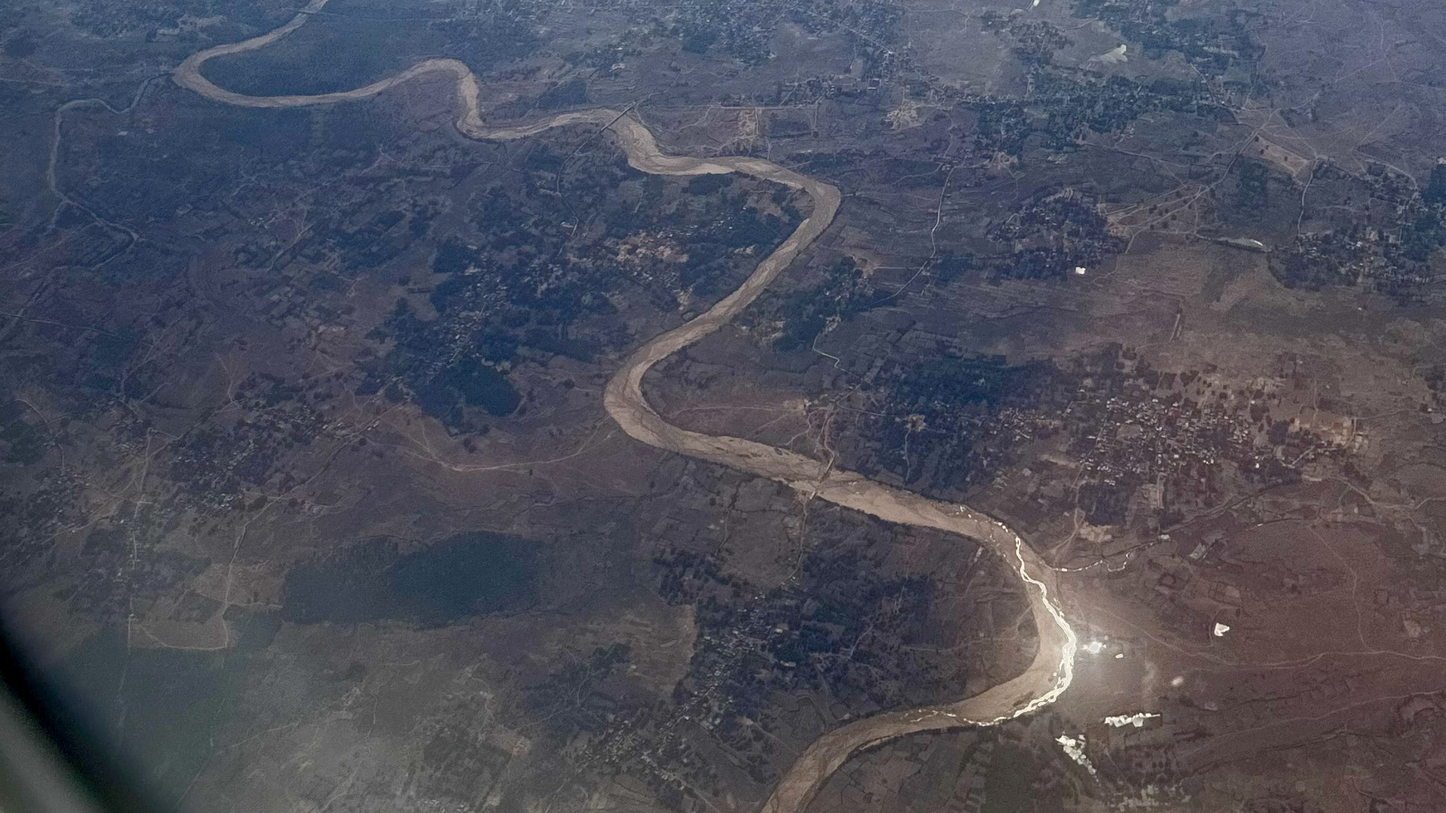
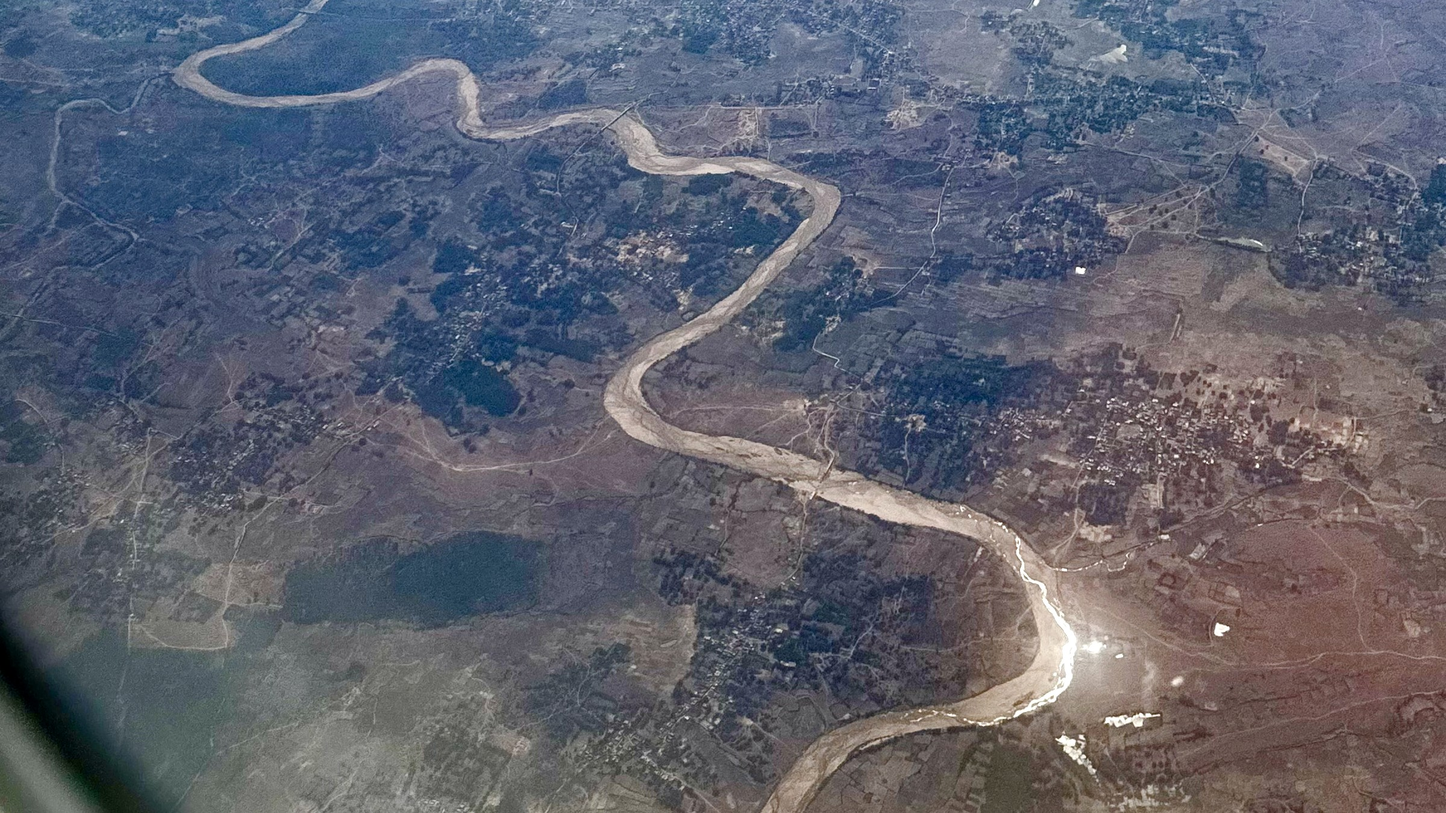
Refine overview river hero for mobile

diff --git a/assets/css/style.css b/assets/css/style.css
@@ -33,8 +33,9 @@ a { color: inherit; }
 .nav-toggle { display: none; width: 42px; height: 42px; border: 1px solid rgba(123, 96, 70, 0.24); border-radius: 6px; background: var(--color-surface); color: var(--color-earth-dark); cursor: pointer; }
 .nav-toggle-line { display: block; width: 18px; height: 2px; margin: 4px auto; background: currentColor; }
 .hero { position: relative; min-height: 74vh; display: grid; align-items: end; overflow: hidden; color: #fffdf8; }
-.hero-image, .hero-overlay { position: absolute; inset: 0; width: 100%; height: 100%; }
+.hero-picture, .hero-image, .hero-overlay { position: absolute; inset: 0; width: 100%; height: 100%; }
 .hero-image { object-fit: cover; }
+.hero-picture .hero-image { position: static; width: 100%; height: 100%; }
 .hero-image.hero-image-contain { object-fit: contain; background: #241f19; }
 .hero-image.hero-image-align-top { object-position: top center; }
 .hero-image.hero-image-natural { filter: contrast(1.02) saturate(1.02); }
@@ -109,4 +110,4 @@ th { color: var(--color-earth-dark); background: var(--color-stone-light); }
 .footer-meta { color: rgba(255,253,248,0.62); font-size: 0.92rem; }
 @media (max-width: 980px) { .site-grid { grid-template-columns: repeat(2, minmax(0, 1fr)); } .gallery-grid { grid-template-columns: repeat(2, minmax(0, 1fr)); } }
 @media (max-width: 860px) { .header-inner { min-height: 64px; } .nav-toggle { display: inline-block; } .site-nav { position: absolute; top: 64px; left: 0; right: 0; display: none; flex-direction: column; align-items: stretch; padding: 10px 20px 18px; background: rgba(248,245,239,0.98); border-bottom: 1px solid rgba(123,96,70,0.16); } .site-nav.is-open { display: flex; } .site-nav a { padding: 11px 0; } .hero { min-height: 68vh; } .hero-content { padding-bottom: 64px; } .section { padding: 64px 0; } .pager-grid { grid-template-columns: 1fr; } }
-@media (max-width: 560px) { .container { width: min(100% - 28px, var(--container)); } .site-title { gap: 8px; font-size: 0.98rem; } .site-logo { width: 78px; } .hero { min-height: 620px; } .home-hero .hero-image { object-position: 76% center; } .hero-overlay { background: linear-gradient(0deg, rgba(40,33,26,0.74), rgba(40,33,26,0.24)), linear-gradient(90deg, rgba(40,33,26,0.66), rgba(40,33,26,0.3)); } .hero-overlay.hero-overlay-river { background: linear-gradient(90deg, rgba(34,27,21,0.82), rgba(34,27,21,0.46) 32%, rgba(34,27,21,0.1) 56%, rgba(34,27,21,0) 78%), linear-gradient(0deg, rgba(34,27,21,0.38), rgba(34,27,21,0.06) 42%, rgba(34,27,21,0)); } .hero-content { padding-bottom: 48px; } .hero h1 { font-size: 2.45rem; } .section { padding: 56px 0; } .site-grid, .gallery-grid { grid-template-columns: 1fr; } .card-body, .pager-card { padding: 22px; } .article-content { font-size: 1rem; } table { min-width: 560px; } }
+@media (max-width: 560px) { .container { width: min(100% - 28px, var(--container)); } .site-title { gap: 8px; font-size: 0.98rem; } .site-logo { width: 78px; } .hero { min-height: 620px; } .home-hero .hero-image { object-position: center center; } .hero-overlay { background: linear-gradient(0deg, rgba(40,33,26,0.74), rgba(40,33,26,0.24)), linear-gradient(90deg, rgba(40,33,26,0.66), rgba(40,33,26,0.3)); } .hero-overlay.hero-overlay-river { background: linear-gradient(90deg, rgba(34,27,21,0.82), rgba(34,27,21,0.46) 32%, rgba(34,27,21,0.1) 56%, rgba(34,27,21,0) 78%), linear-gradient(0deg, rgba(34,27,21,0.34), rgba(34,27,21,0.04) 42%, rgba(34,27,21,0)); } .hero-content { padding-bottom: 48px; } .hero h1 { font-size: 2.45rem; } .section { padding: 56px 0; } .site-grid, .gallery-grid { grid-template-columns: 1fr; } .card-body, .pager-card { padding: 22px; } .article-content { font-size: 1rem; } table { min-width: 560px; } }

diff --git a/index.html b/index.html
@@ -31,7 +31,10 @@
   </header>
   <main id="main-content">
     <section class="hero home-hero" aria-labelledby="hero-title">
-      <img class="hero-image" src="assets/images/overview-river-hero.jpeg" alt="印度大地上的蜿蜒河道與陽光反射">
+      <picture class="hero-picture">
+        <source media="(max-width: 560px)" srcset="assets/images/overview-river-hero-mobile.jpeg">
+        <img class="hero-image" src="assets/images/overview-river-hero.jpeg" alt="印度大地上的蜿蜒河道與陽光反射">
+      </picture>
       <div class="hero-overlay hero-overlay-river"></div>
       <div class="container hero-content">
         <p class="eyebrow">華光寺｜Huah Kwang Temple</p>

diff --git a/image_mapping.md b/image_mapping.md
@@ -22,7 +22,7 @@ huahkwang-sacred-sites/assets/images/
 
 | 用途 | 原始檔名 | 輸出檔名 | 選擇理由 |
 |---|---|---|---|
-| 首頁 hero | 0_river_3.jpeg | `overview-river-hero.jpeg` | 由飛機上俯望印度大地與蜿蜒古河道，水面反光象徵印度河域綻放的智慧光芒；採用 A2_1 裁切與局部遮罩設計，保留河道婉轉與反射亮光。 |
+| 首頁 hero | 0_river_4.jpeg | `overview-river-hero.jpeg`、`overview-river-hero-mobile.jpeg` | 由飛機上俯望印度大地與蜿蜒古河道，水面反光象徵印度河域綻放的智慧光芒；採用 A2_1 裁切與局部遮罩設計，桌機使用橫式圖，手機使用直式專用圖以保留上方小河灣與右下反光。 |
 
 ## 1. 藍毘尼園｜佛陀誕生
 
